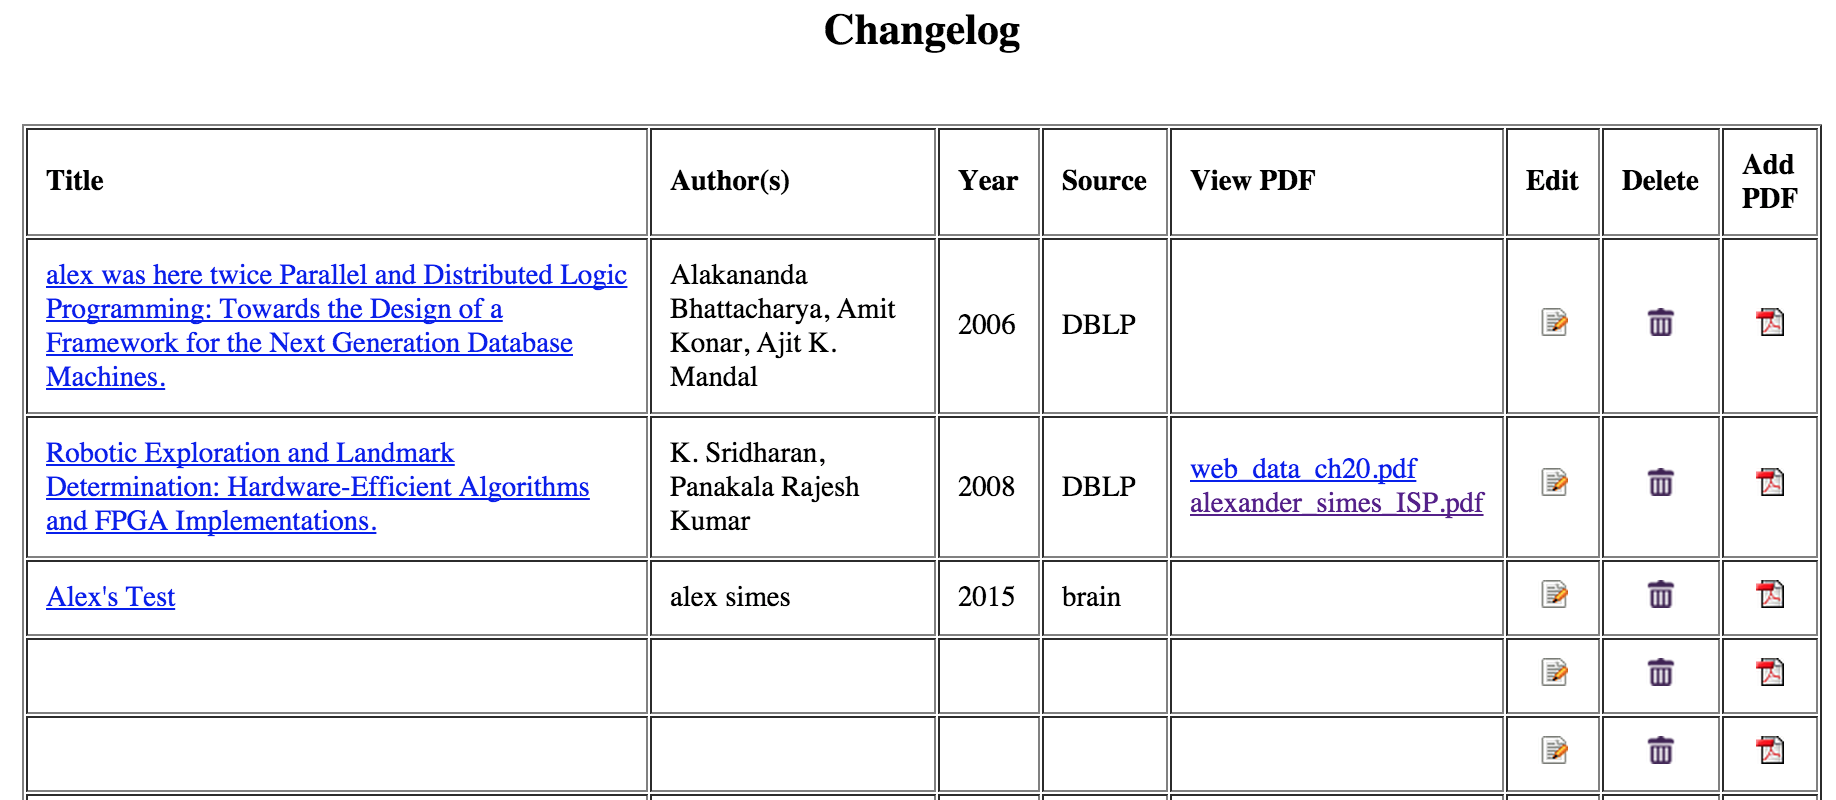
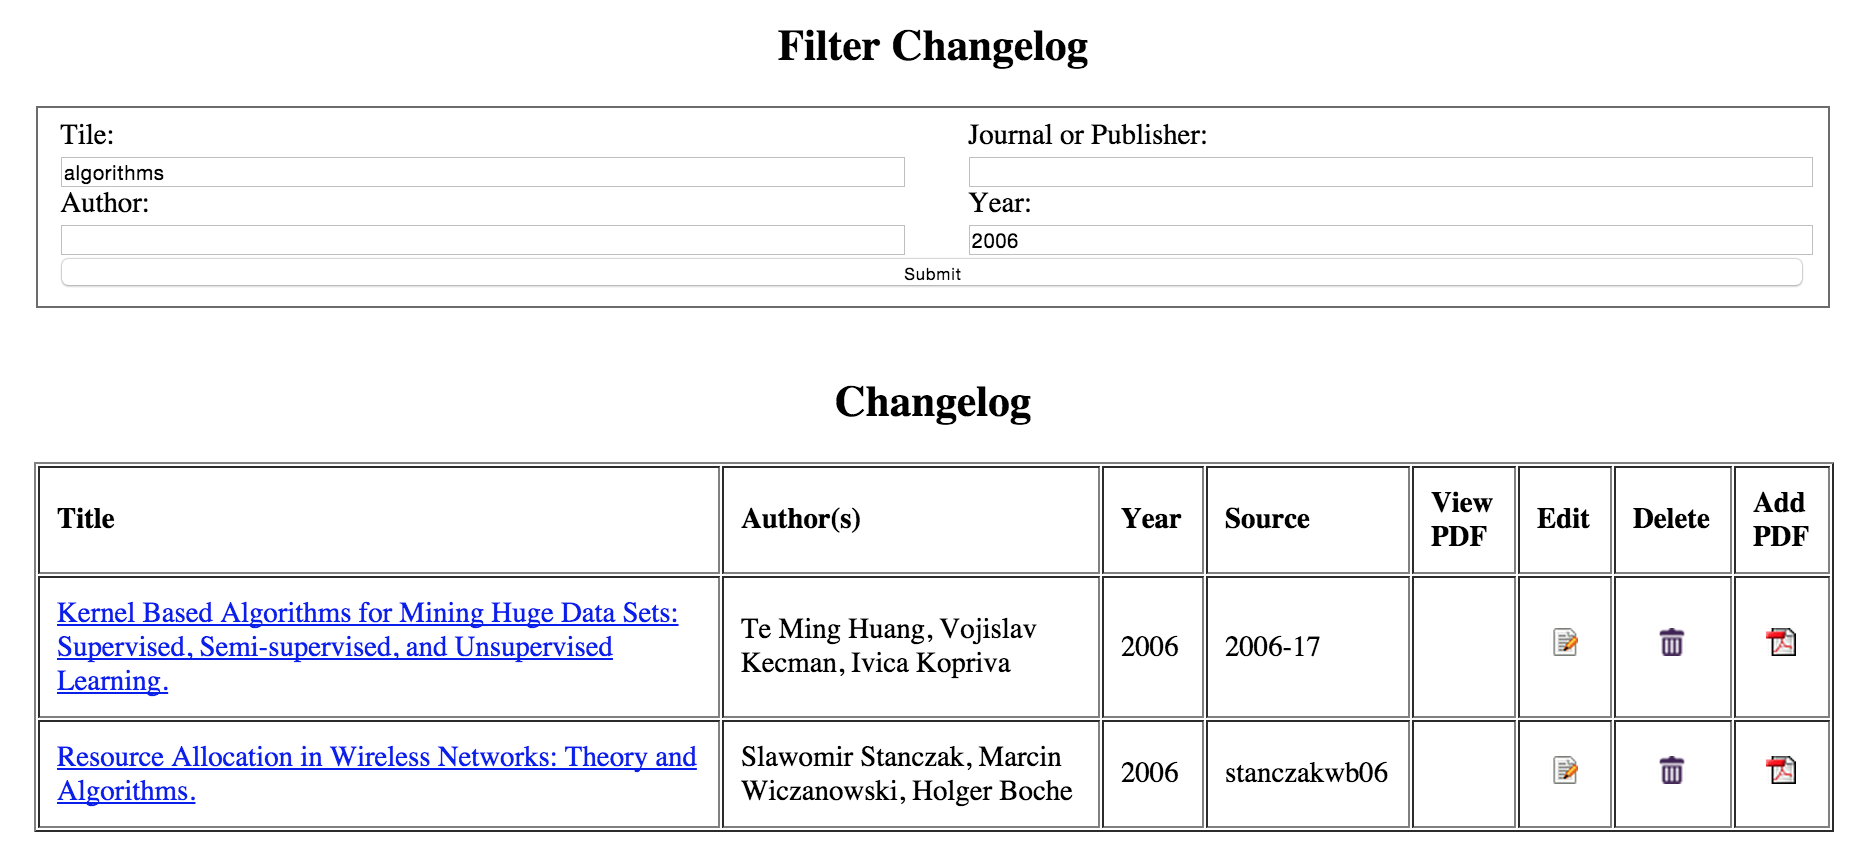
fixed report changelog section

Changed region(s): [[0.0, 0.125, 0.9935, 1.0], [0.4036, 0.0, 0.5899, 0.0938]]

diff --git a/Assignment2/app/changelog.php b/Assignment2/app/changelog.php
@@ -128,7 +128,7 @@ function json_to_html_table_change($json,$table_length){
 		echo '<td><a onclick="return createBibtex('.$book_safe_json.');" href="javascript:void(0)">'.$book->title."</a></td>";
 		echo "<td>".implode(", ",$authors)."</td>";
 		echo "<td>".$book->year."</td>";
-		echo "<td>".$book->_id."</td>";
+		echo "<td>".$book->source."</td>";
 		echo "<td>".$attachment_list."</td>";
 		echo '<td align="center"><a href="edit_form.php?id='.$id.'"><img src="icons/edit.png"></a></td>';
 		echo '<td align="center"><a href=handle_delete.php?id='.$id.'><img src="icons/delete.png"></a></td>';

diff --git a/Assignment2/report.md b/Assignment2/report.md
@@ -62,9 +62,20 @@ And finally, we unzip the books-json package, insert all books, and clean up the
 ######Using the Log to see Modifications
 We ran into a lot of problems trying to implement this last part of the assignment. While we were able to see the logs on our local filesystem, we did not find a way to query CouchDB for the logs and get them back in a format to present to the user. The one thing we found was doing a GET request on `http://127.0.0.1:5984/_log` which dumps out the last few items in the log. However, this was not enough to build the functionality requested.
 
-After some further investigation, we found the 'http://127.0.0.1:5984/books/_changes' that can be used to query the changes made to the books database. By adding the decending=true parameter and selecting the top 10 we had an initial implementation for browsing the changes that where made recently. Lastly, we selected the last 10 changes and show those to the user as shown below.
+After some further investigation, we found the 'http://127.0.0.1:5984/books/_changes' that can be used to query the changes made to the books database. By adding the decending=true parameter and selecting the top 10 we had an initial implementation for browsing the changes that where made recently. Lastly, we selected the last 10 changes and show those to the user.
 
-<img src="resources/report_images/changelog.png" style="width:3.5in"></img>
+The next part of the changelog was to enable users to specify from which documents they want to see the changes. For this, we first had to add a filter to the database, this filter is added along with the views in the reset script. The code for the filter can be seen [here](https://github.com/alex9311/Web-Data-Management/blob/master/Assignment2/json/config_files/all.json) or below:
 
+```
+function(doc, req) {
+	var values=JSON.parse(req.query.ids); 
+	if(values.indexOf(doc._id) > -1) { 
+		return true; 
+	}else {
+		return false; 
+	}
+}
+```
+As you can see, the filter we created works by comparing ids. We took the user search parameters and reused our 15 views to get a list of ids that match. This way we could show changes in only those matching ids. Our final GUI for the changelog is shown below.
+<img src="resources/report_images/changelog.png" style="width:4.5in"></img>
 
-The next part of the changelog was to enable users to specify from which documents they want to see the changes. For this, we first had to add an filter to the database, this filter has been included in the database reset script. The filter we created works by comparing id's. This ment that we had to get the id's based on the user's input. For this we could reuse the views we had created for the search to get the id's of the selected documents. Based on the id's that are gathered from the search the changes for those documents are requested on the server.
